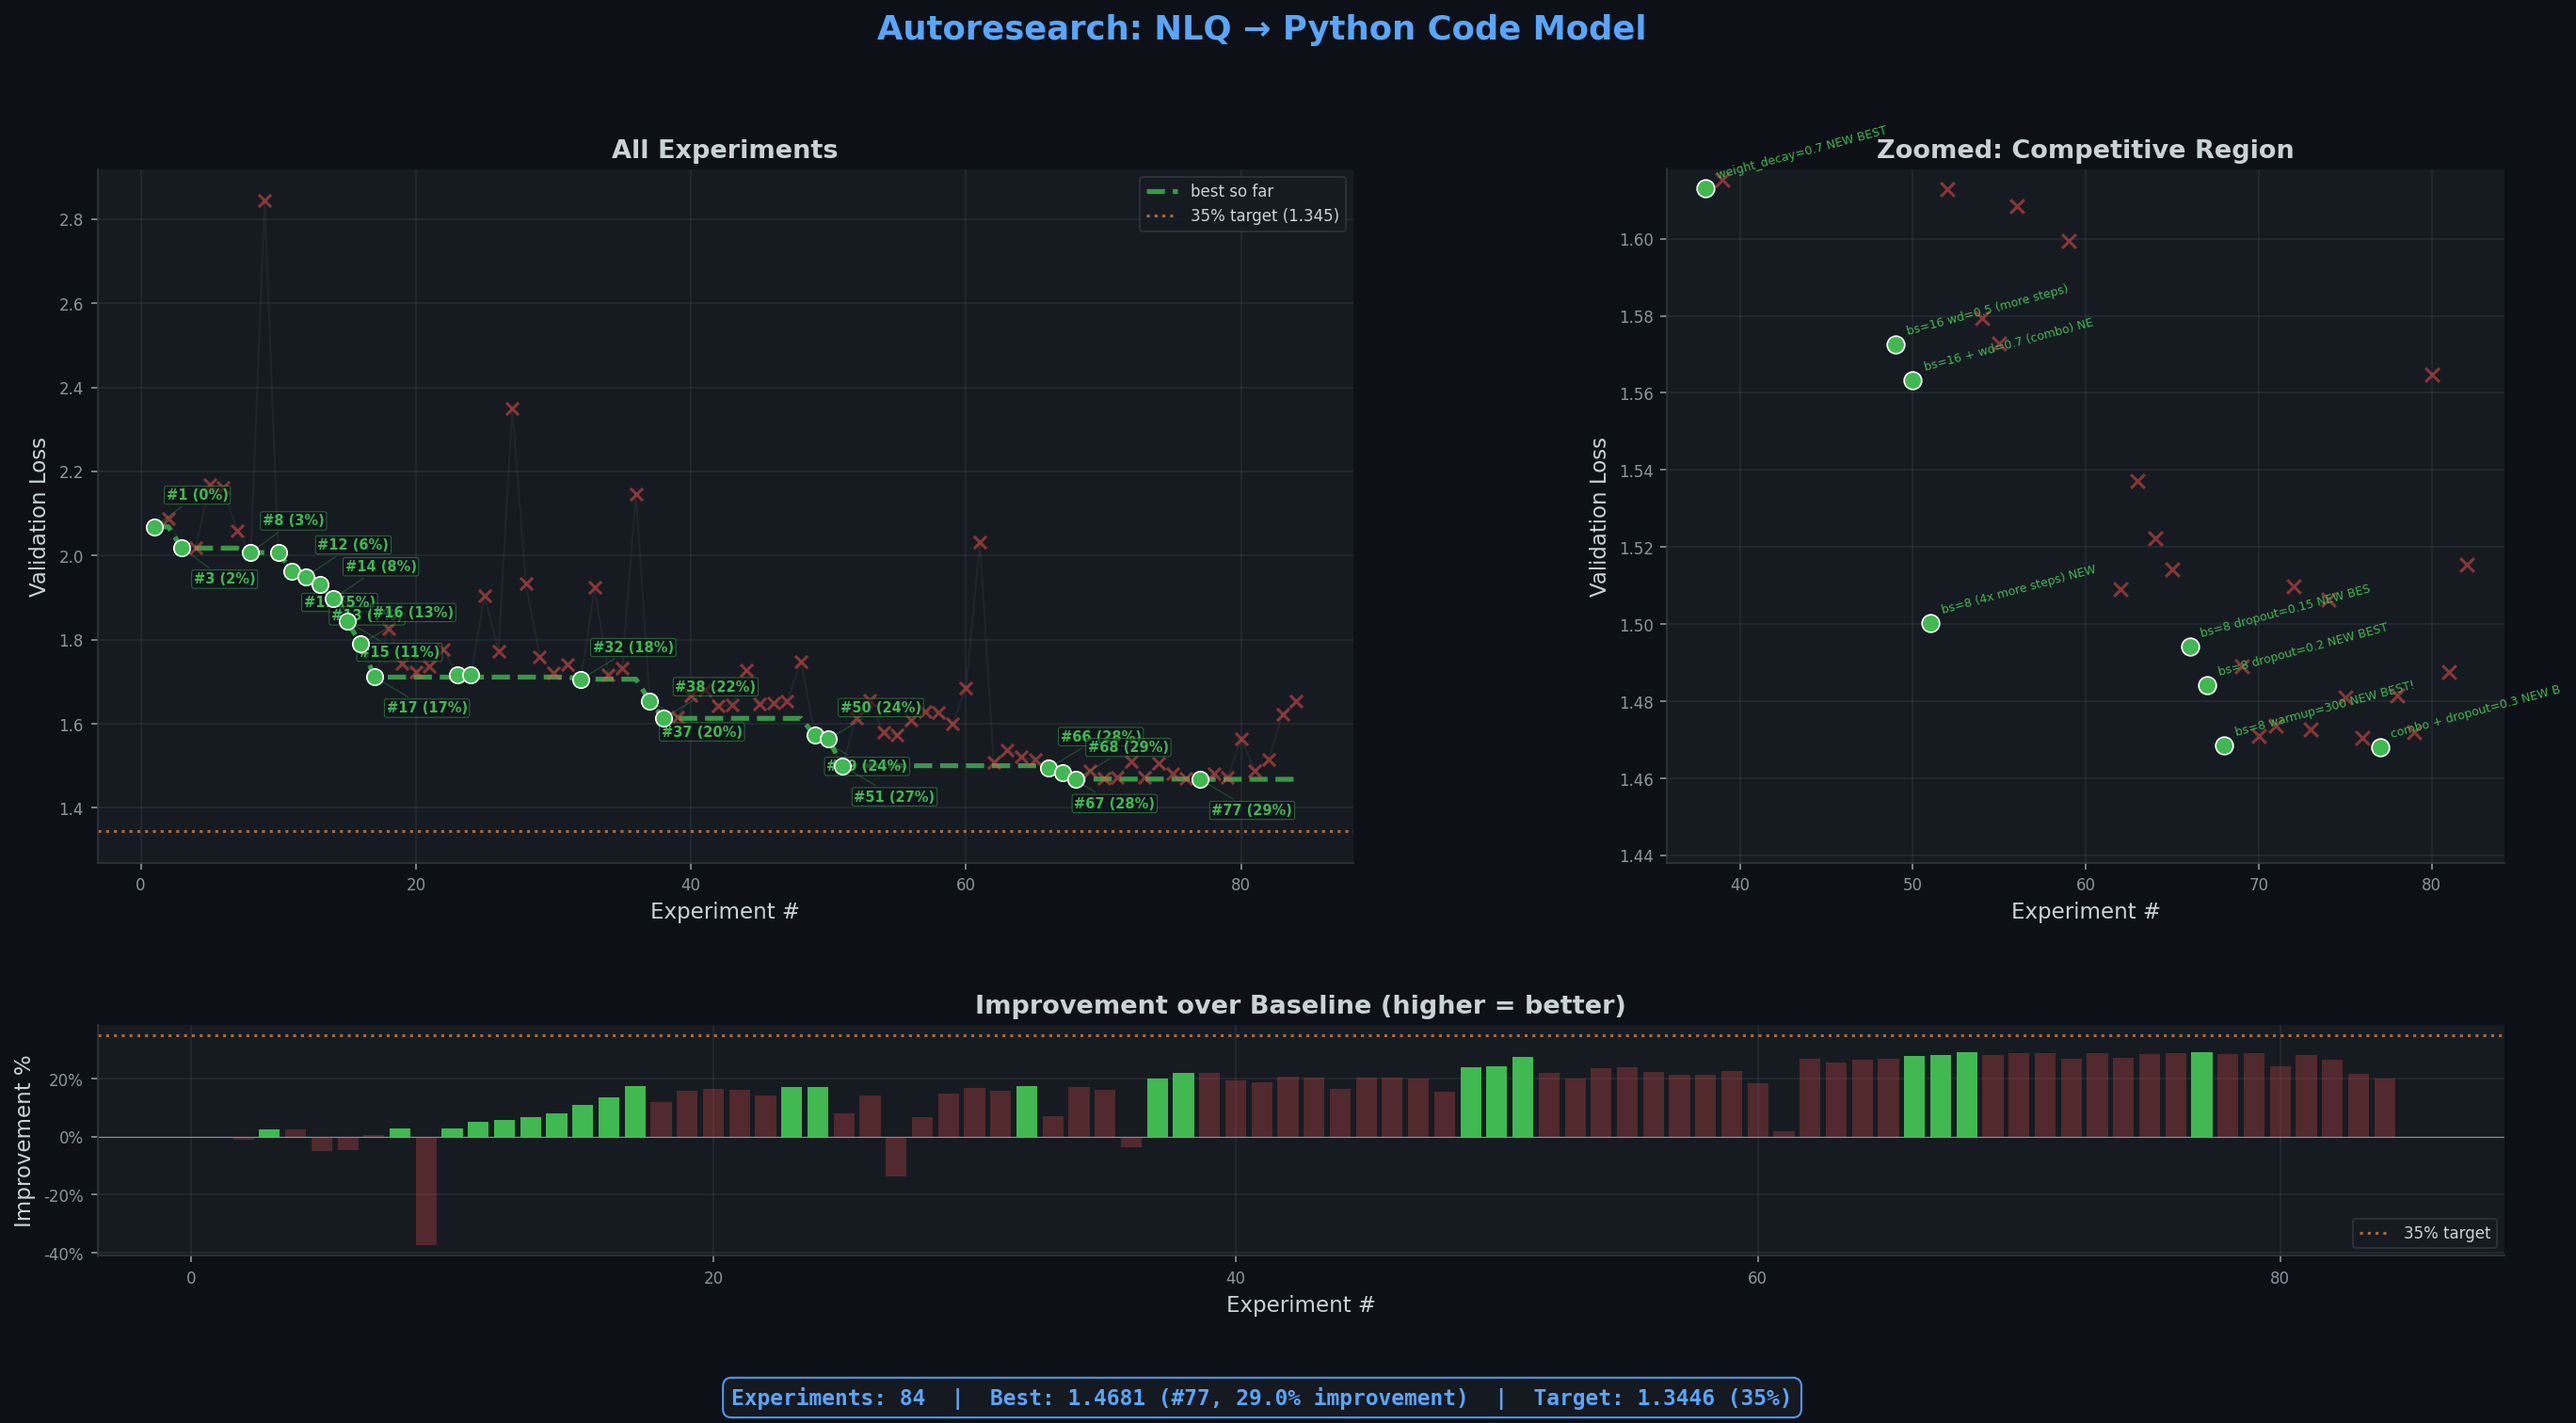
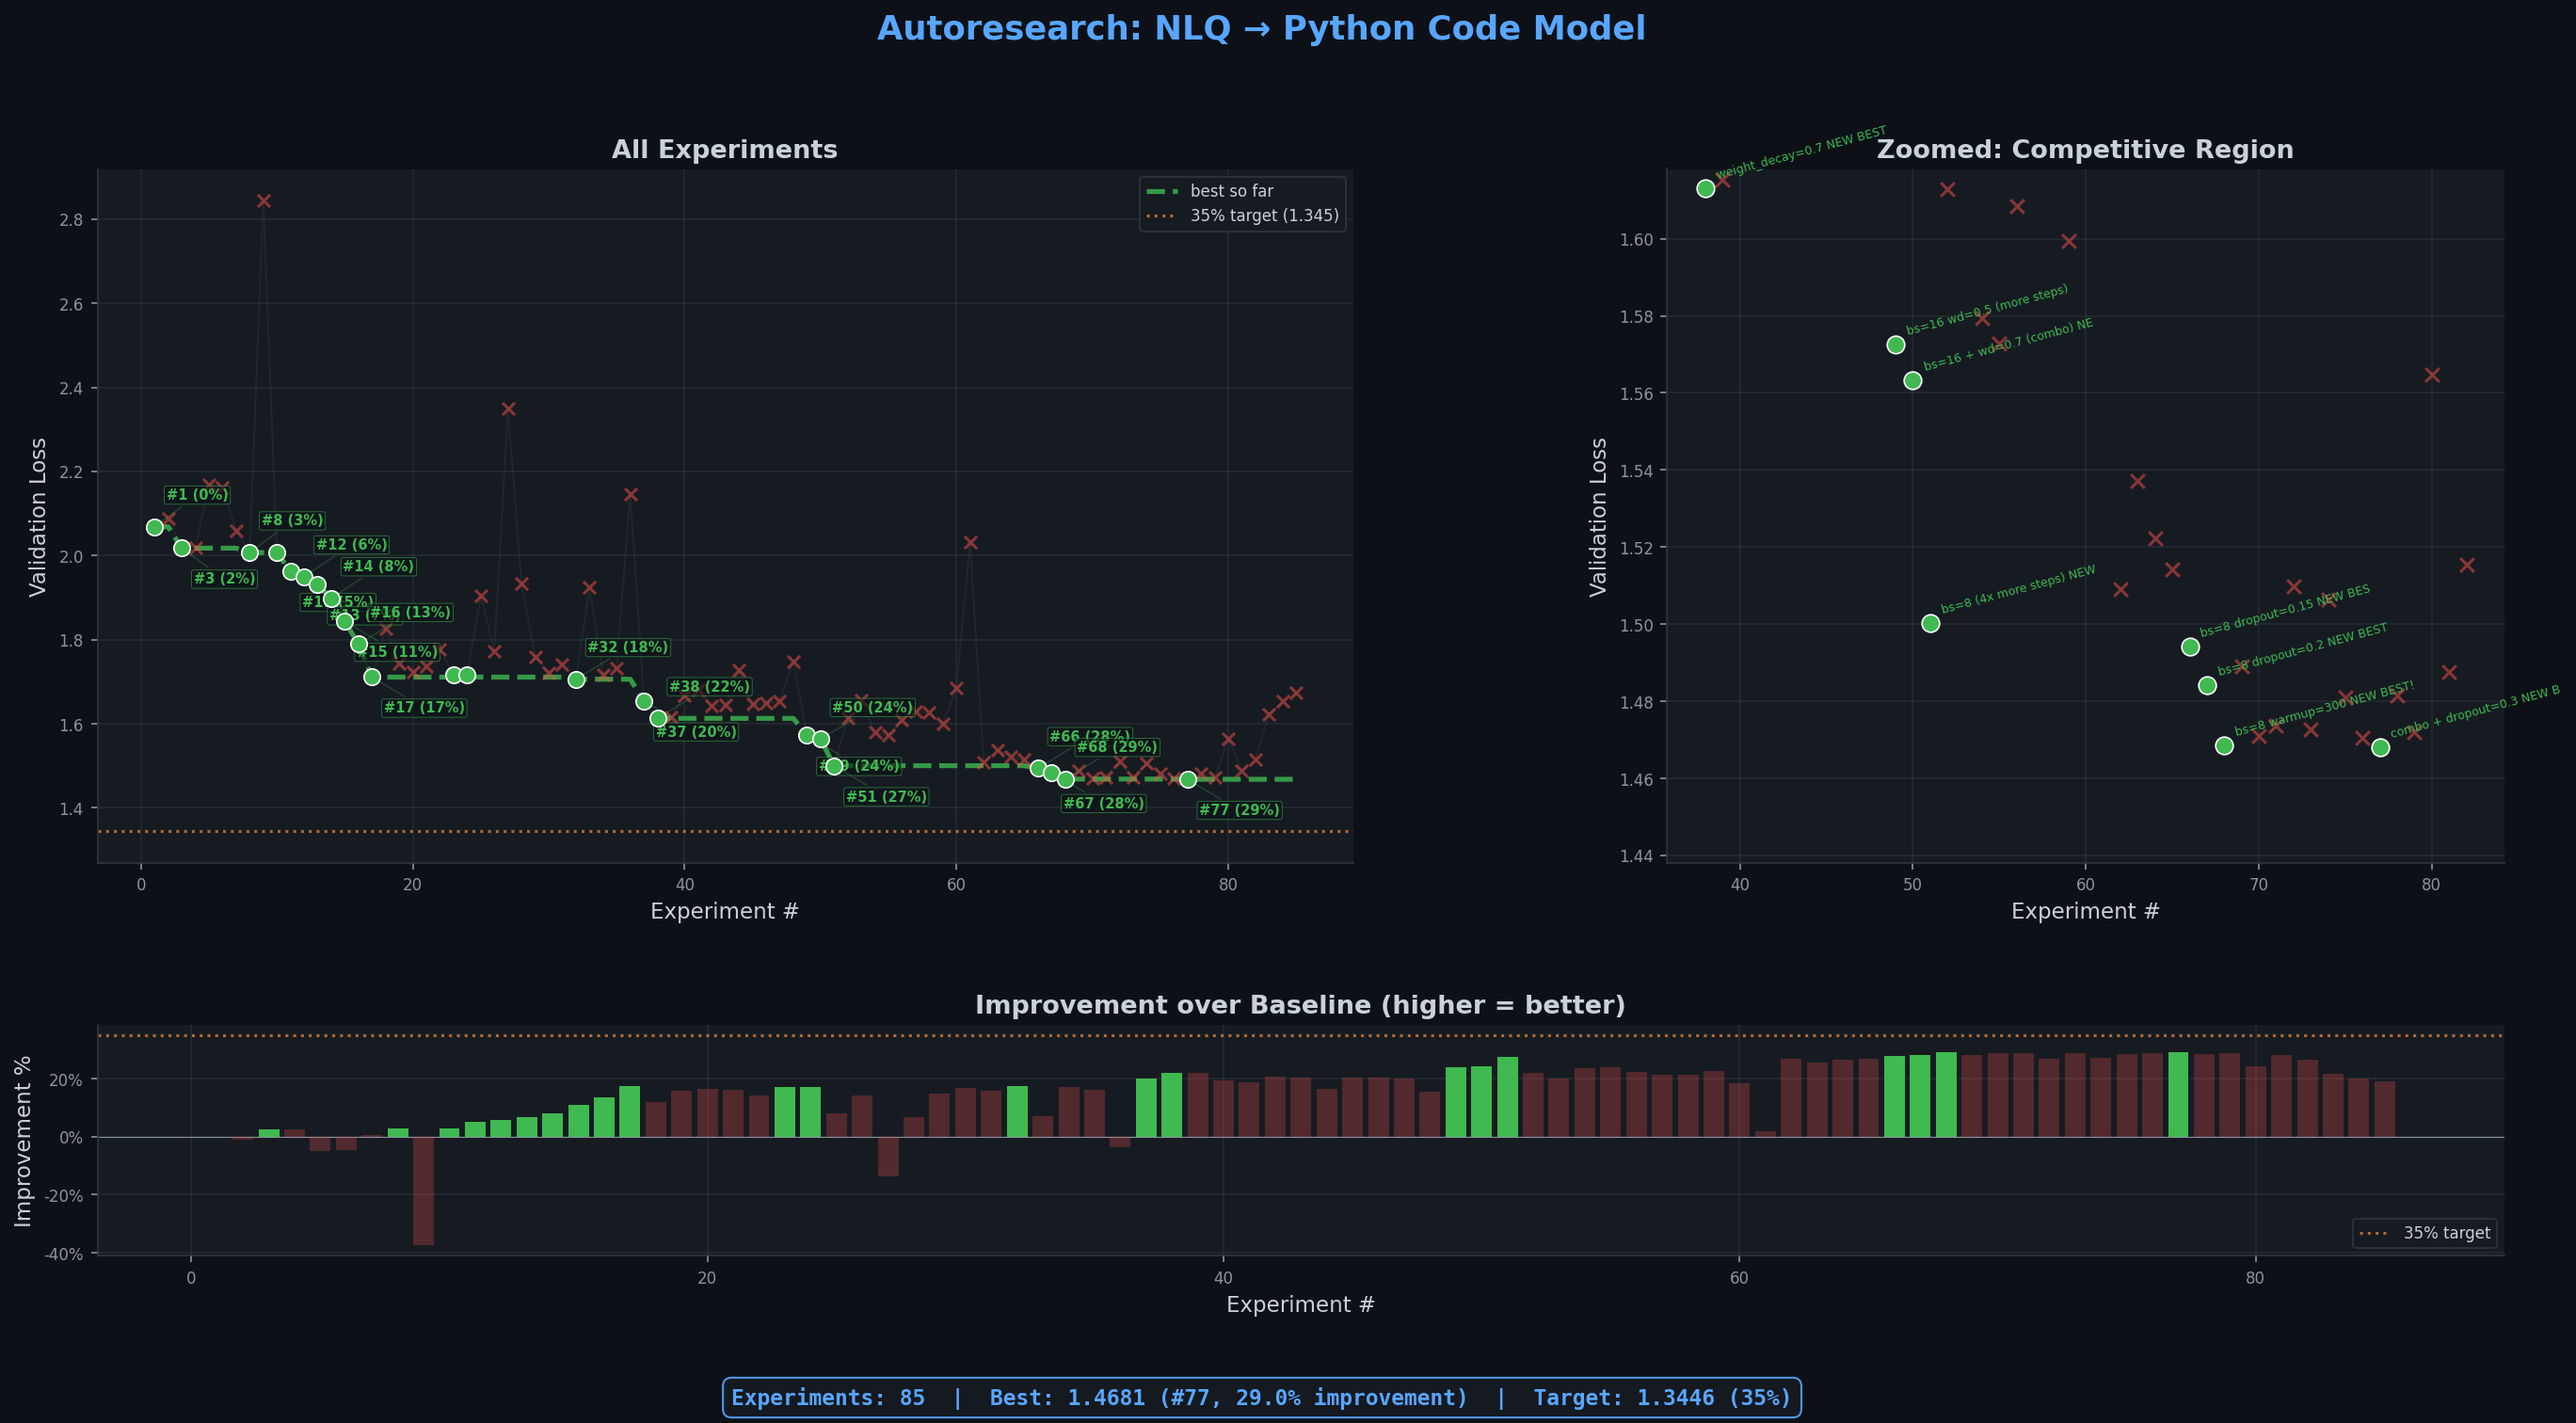
exp 085: lr=5e-3 decay=2000 (val=1.6744, 19.1%)

Changed region(s): [[0.1863, 0.7149, 0.9317, 0.8082], [0.0932, 0.3419, 0.4969, 0.5906]]

diff --git a/train_mlx.py b/train_mlx.py
@@ -50,9 +50,9 @@ BATCH_SIZE = 8
 LEARNING_RATE = 3e-3
 WEIGHT_DECAY = 0.5
 WARMUP_STEPS = 300
-TIME_BUDGET = 420
+TIME_BUDGET = 300
 GRAD_CLIP = 1.0
-DECAY_STEPS = 3500
+DECAY_STEPS = 5000
 USE_LION = False
 
 # ---------------------------------------------------------------------------
